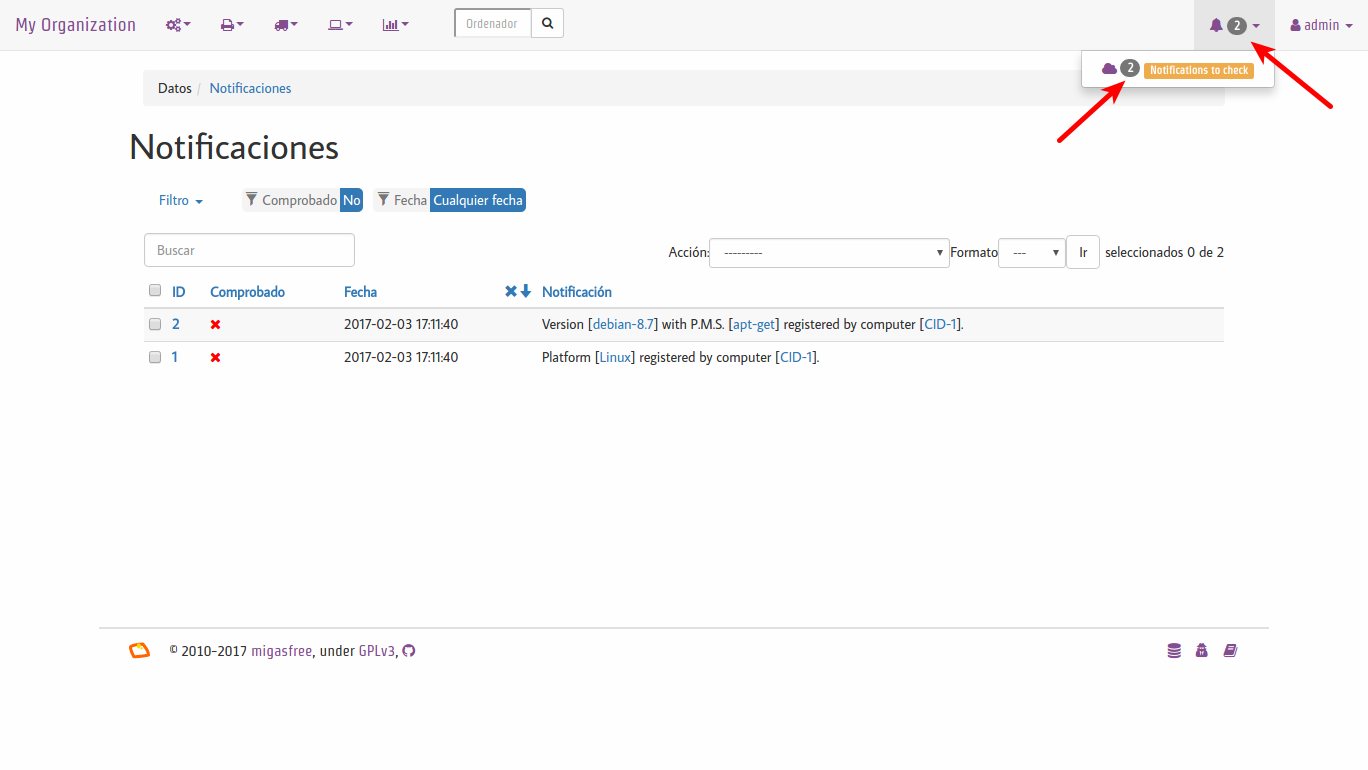
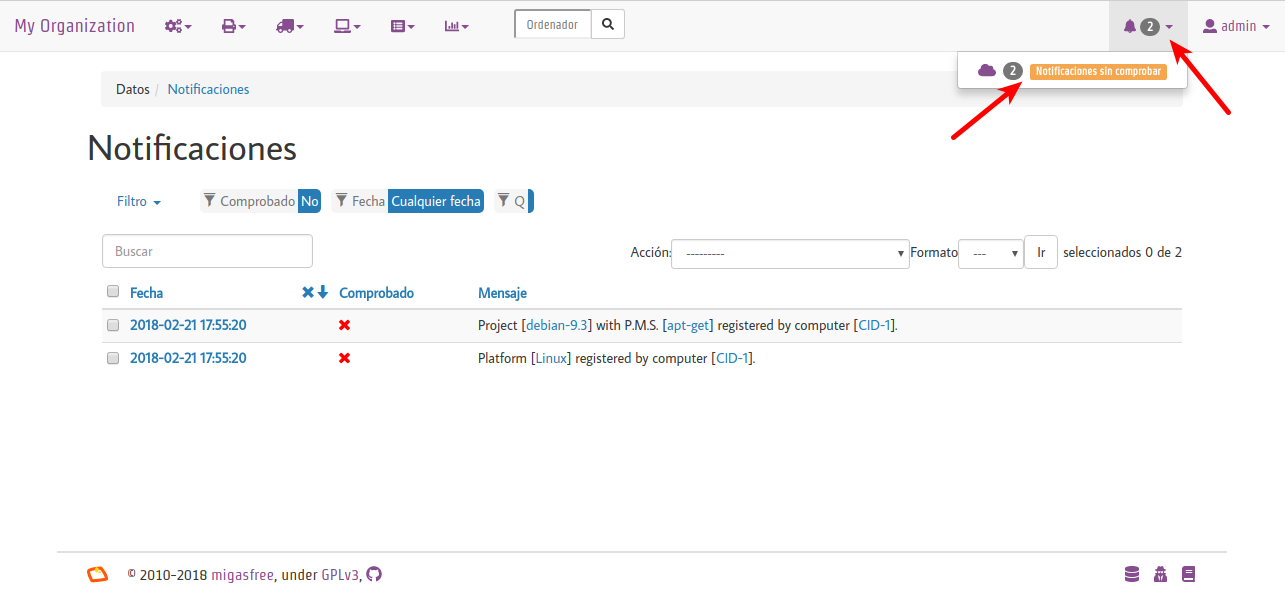
Correcciones "Probando migasfree"

diff --git a/chapter05.rst b/chapter05.rst
@@ -156,12 +156,12 @@ te devolverá una salida parecida a esta:
 
   .. code-block:: none
 
-    root@debian:/home/tux# migasfree -u
+    root@migasfree:/home/tux# migasfree -u
     Sesión gráfica no detectada
     Versión de migasfree client: 4.15
 
     Opciones de ejecución: /etc/migasfree.conf
-        Proyecto: debian-8.10
+        Proyecto: debian-9.3
         Servidor: localhost
         Actualizar paquetes automáticamente: True
         Proxy: None
@@ -175,8 +175,9 @@ te devolverá una salida parecida a esta:
         Usuario gráfico: root
 
     Autoregistrando ordenador...
-    ¡Clave /var/migasfree-client/keys/localhost/debian-8.10.pri creada!
+    ¡Clave /var/migasfree-client/keys/localhost/debian-9.3.pri creada!
     ¡Clave /var/migasfree-client/keys/localhost/server.pub creada!
+    Warning: apt-key output should not be parsed (stdout is not a terminal)
     ¡Clave /var/migasfree-client/keys/localhost/repositories.pub creada!
 
     ******************* Conectando al servidor migasfree... ********************
@@ -186,7 +187,7 @@ te devolverá una salida parecida a esta:
     ***************************** Correcto
 
     ************************** Evaluando atributos... **************************
-    PCI: 8086:1237~Host bridge: Intel Corporation 440FX - 82441FX PMC [Natoma] (rev 02) ,8086:7000~ISA bridge: Intel Corporation 82371SB PIIX3 ISA [Natoma/Triton II] ,8086:7111~IDE interface: Intel Corporation 82371AB/EB/MB PIIX4 IDE (rev 01) ,80ee:beef~VGA compatible controller: InnoTek Systemberatung GmbH VirtualBox Graphics Adapter ,8086:100e~Ethernet controller: Intel Corporation 82540EM Gigabit Ethernet Controller (rev 02) ,80ee:cafe~System peripheral: InnoTek Systemberatung GmbH VirtualBox Guest Service ,8086:2415~Multimedia audio controller: Intel Corporation 82801AA AC'97 Audio Controller (rev 01) ,106b:003f~USB controller: Apple Inc. KeyLargo/Intrepid USB ,8086:7113~Bridge: Intel Corporation 82371AB/EB/MB PIIX4 ACPI (rev 08) ,8086:265c~USB controller: Intel Corporation 82801FB/FBM/FR/FW/FRW (ICH6 Family) USB2 EHCI Controller ,8086:2829~SATA controller: Intel Corporation 82801HM/HEM (ICH8M/ICH8M-E) SATA Controller [AHCI mode] (rev 02) ,
+    PCI: 8086:1237~Host bridge: Intel Corporation 440FX - 82441FX PMC [Natoma] (rev 02) ,8086:7000~ISA bridge: Intel Corporation 82371SB PIIX3 ISA [Natoma/Triton II] ,8086:7111~IDE interface: Intel Corporation 82371AB/EB/MB PIIX4 IDE (rev 01) ,80ee:beef~VGA compatible controller: InnoTek Systemberatung GmbH VirtualBox Graphics Adapter ,8086:100e~Ethernet controller: Intel Corporation 82540EM Gigabit Ethernet Controller (rev 02) ,80ee:cafe~System peripheral: InnoTek Systemberatung GmbH VirtualBox Guest Service ,106b:003f~USB controller: Apple Inc. KeyLargo/Intrepid USB ,8086:7113~Bridge: Intel Corporation 82371AB/EB/MB PIIX4 ACPI (rev 08) ,8086:2829~SATA controller: Intel Corporation 82801HM/HEM (ICH8M/ICH8M-E) SATA Controller [AHCI mode] (rev 02) ,
 
     HST: migasfree
 
@@ -207,20 +208,11 @@ te devolverá una salida parecida a esta:
     ***************************** Correcto
 
     ************* Obteniendo los metadatos de los repositorios... **************
-    Ign http://ftp.es.debian.org jessie InRelease
-    Obj http://security.debian.org jessie/updates InRelease
-    Obj http://ftp.es.debian.org jessie-updates InRelease
-    Obj https://download.docker.com jessie InRelease
-    Obj http://security.debian.org jessie/updates/main Sources
-    Obj http://ftp.es.debian.org jessie Release.gpg
-    Obj https://download.docker.com jessie/stable amd64 Packages
-    Obj http://security.debian.org jessie/updates/main amd64 Packages
-    Obj http://ftp.es.debian.org jessie-updates/main Sources
-    Des:1 http://ftp.es.debian.org jessie-updates/main amd64 Packages/DiffIndex [10,9 kB]
-    Obj http://ftp.es.debian.org jessie Release
-    Obj http://ftp.es.debian.org jessie/main Sources
-    Obj http://ftp.es.debian.org jessie/main amd64 Packages
-    Descargados 10,9 kB en 1s (6.461 B/s)
+    Ign:1 http://ftp.es.debian.org/debian stretch InRelease
+    Obj:2 http://security.debian.org/debian-security stretch/updates InRelease
+    Obj:3 http://ftp.es.debian.org/debian stretch-updates InRelease
+    Obj:4 http://ftp.es.debian.org/debian stretch Release
+    Obj:5 https://download.docker.com/linux/debian stretch InRelease
     Leyendo lista de paquetes... Hecho
     ***************************** Correcto
 
@@ -235,11 +227,18 @@ te devolverá una salida parecida a esta:
     Leyendo lista de paquetes...
     Creando árbol de dependencias...
     Leyendo la información de estado...
+    Calculando la actualización...
     0 actualizados, 0 nuevos se instalarán, 0 para eliminar y 0 no actualizados.
 
     ***************************** Correcto
 
     ****************** Subiendo el inventario del software... ******************
+    ***************************** Correcto
+
+    *************** Capturando información sobre el hardware... ***************
+    ***************************** Correcto
+
+    **************** Enviando información sobre el hardware... ****************
     ***************************** Correcto
 
     ************************* Operaciones completadas **************************
